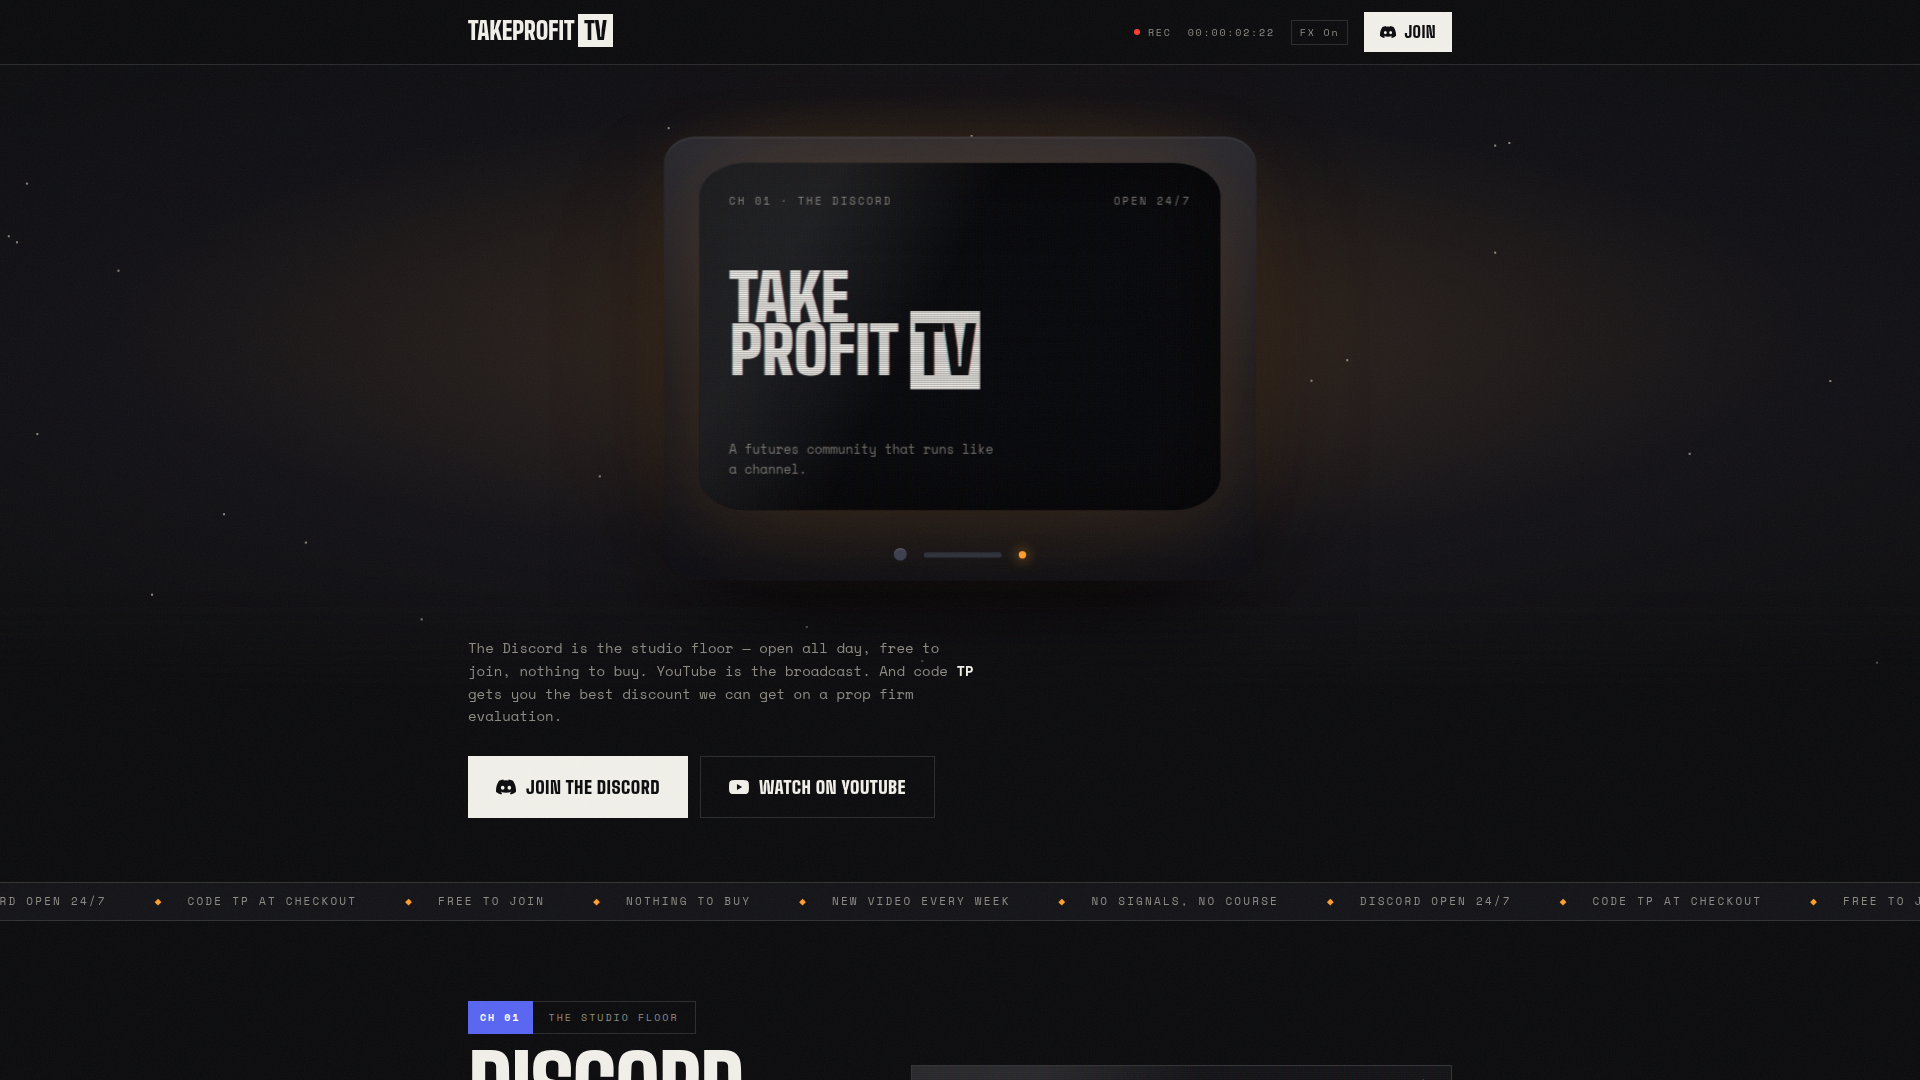
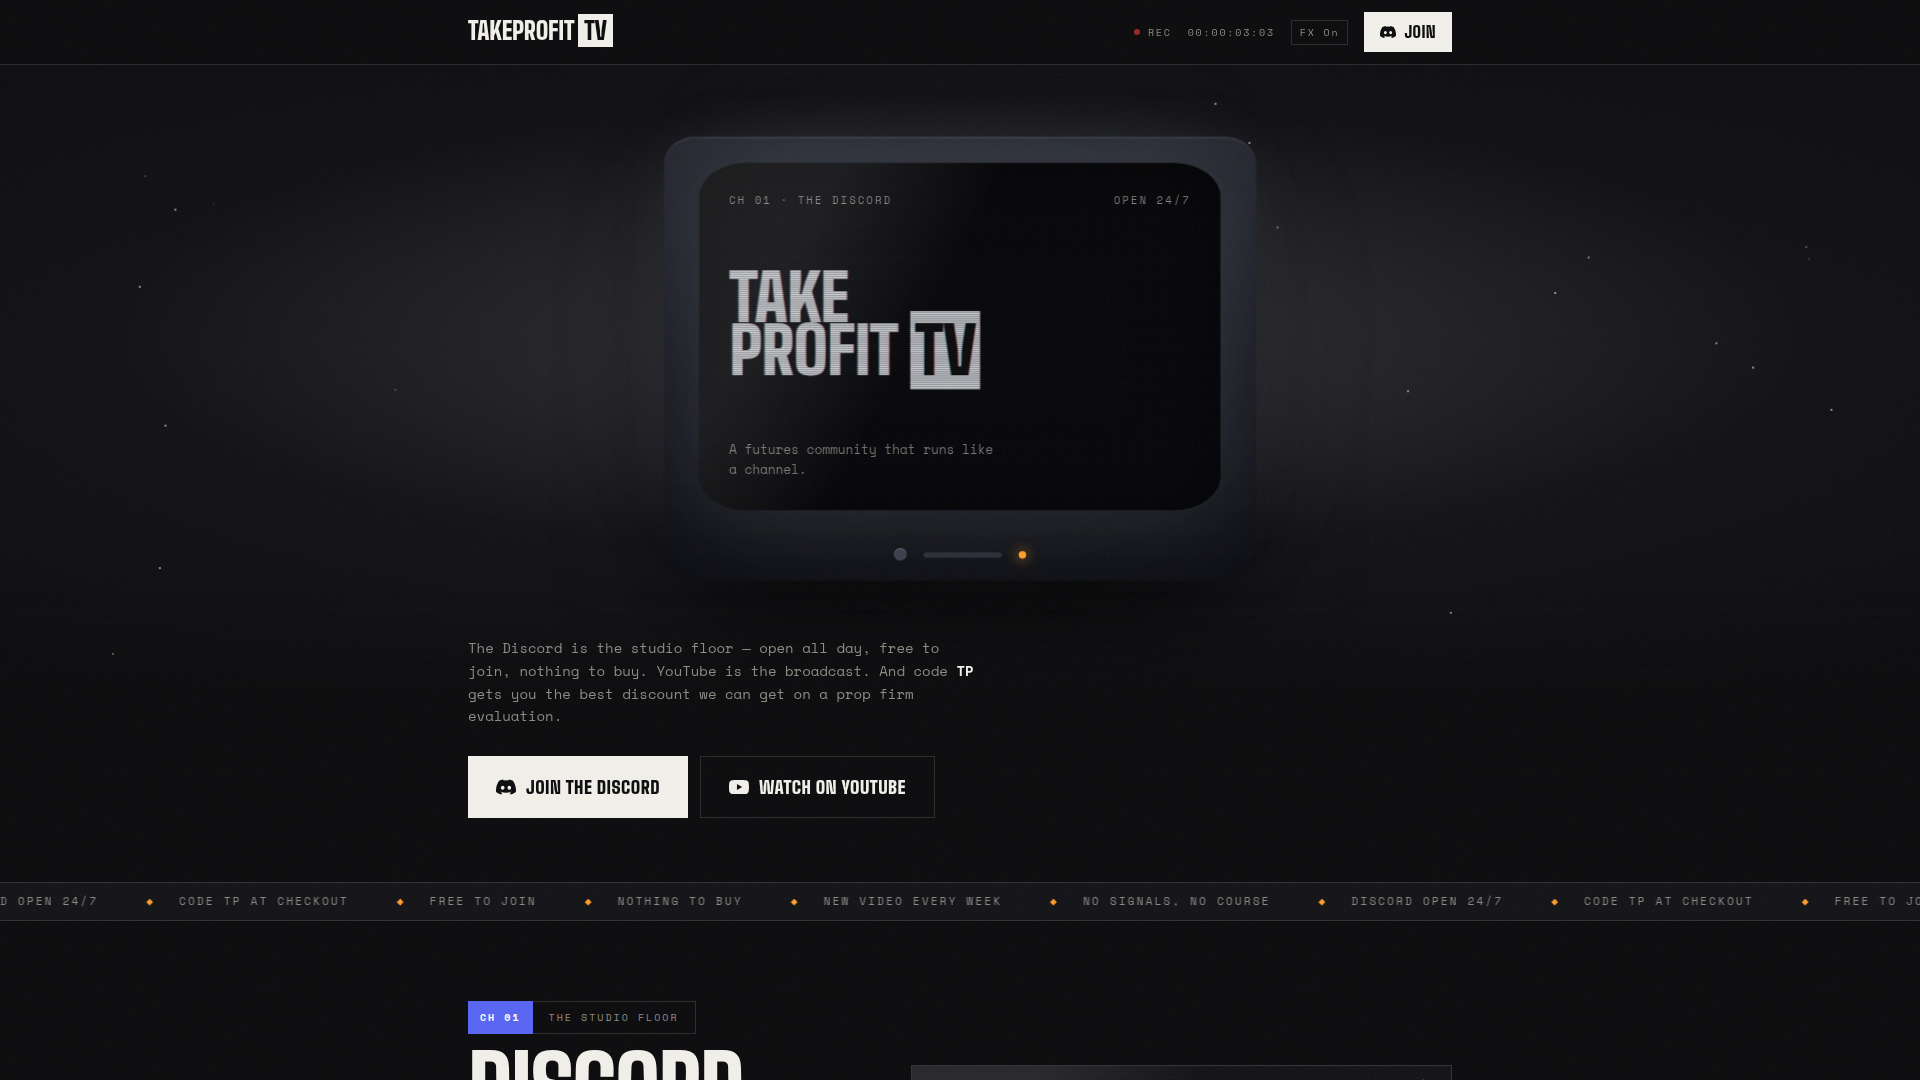
Make the hero screen a cold grey tube, and retarget the film at it
The hero screen read as a warm amber panel, which looked like a lit
graphic rather than a television. It is now cold phosphor grey, and
because a set lights a room in its own colour, the glow and the wall
bounce follow it — leaving the small amber power LED as the only warm
point in frame, which is what a real tube in a dark room looks like.

The screen also flickers now. The opacity steps are hand-jittered
rather than eased: a smooth curve reads as a CSS animation, an
irregular table reads as a tube not quite holding its signal. It is
shallow enough to keep the copy legible, and off under
prefers-reduced-motion and the FX switch like everything else textural.

The film brief followed the same change, since its whole job is to
arrive where the site lives. The colour arc now drains to cold grey
rather than amber, shots 4 and 5 land on a grey tube with the amber
power light as the last surviving warmth, and the handoff frame was
recaptured from the current build — the committed one still showed the
old amber screen.

Also corrects the style direction. Flat vector cartoon was the wrong
read: it looks like clipart at video resolution and it is what video
models handle worst, because linework boils and flat fills band. The
target is stylised 3D with cinematic lighting, which is both the better
look and the one these models can hold across takes. The brief now
starts with a look-dev step — settle one still, reference it everywhere
[…]

diff --git a/src/app/globals.css b/src/app/globals.css
@@ -22,6 +22,8 @@
   --amber: #ff9e2c;
   --rec: #ff3b30;
   --blurple: #5865f2;
+  /* Cold phosphor. The hero screen and everything it lights. */
+  --screen: #c9ccd1;
 
   /* SMPTE colour bars at 75% — the site's decorative palette.
      Seven colours where every competitor has one accent. */
@@ -43,6 +45,7 @@
   --color-amber: var(--amber);
   --color-rec: var(--rec);
   --color-blurple: var(--blurple);
+  --color-screen: var(--screen);
   --font-display: var(--font-shoulders);
   --font-mono: var(--font-space-mono);
 }
@@ -262,7 +265,7 @@ body {
 .room-wall {
   transform: translateZ(-620px) scale(1.75);
   background:
-    radial-gradient(ellipse 50% 42% at 50% 46%, rgba(255, 158, 44, 0.14), transparent 62%),
+    radial-gradient(ellipse 50% 42% at 50% 46%, rgba(201, 204, 209, 0.16), transparent 62%),
     radial-gradient(ellipse 80% 62% at 50% 54%, rgba(38, 34, 44, 0.5), transparent 72%),
     linear-gradient(#0e0e12, var(--ink) 72%);
 }
@@ -325,8 +328,8 @@ body {
   background: #06070b;
   box-shadow:
     inset 0 0 72px rgba(0, 0, 0, 0.95),
-    0 0 90px rgba(255, 158, 44, 0.16),
-    0 0 200px rgba(255, 158, 44, 0.08);
+    0 0 90px rgba(201, 209, 218, 0.14),
+    0 0 200px rgba(201, 209, 218, 0.07);
 }
 .room-feet {
   position: absolute;
@@ -377,3 +380,30 @@ body {
 }
 [data-fx="off"] .room-dust { display: none; }
 [data-fx="off"] .room-screen { box-shadow: inset 0 0 40px rgba(0, 0, 0, 0.8); }
+
+/* Tube flicker.
+
+   The opacity steps are hand-jittered on purpose. A smooth sine reads as a
+   CSS animation; an irregular table reads as a tube that is not quite
+   holding its signal. Kept shallow so the copy stays legible. */
+.crt-flicker {
+  animation: crt-flicker 3.4s steps(1, end) infinite;
+}
+@keyframes crt-flicker {
+  0%, 100% { opacity: 1; }
+  3% { opacity: 0.86; }
+  5% { opacity: 1; }
+  22% { opacity: 0.93; }
+  24% { opacity: 1; }
+  47% { opacity: 0.88; }
+  48% { opacity: 0.97; }
+  50% { opacity: 1; }
+  71% { opacity: 0.91; }
+  73% { opacity: 1; }
+  92% { opacity: 0.84; }
+  94% { opacity: 1; }
+}
+@media (prefers-reduced-motion: reduce) {
+  .crt-flicker { animation: none; }
+}
+[data-fx="off"] .crt-flicker { animation: none; }

diff --git a/src/components/hero-room.tsx b/src/components/hero-room.tsx
@@ -104,7 +104,7 @@ export function HeroRoom() {
                   aria-hidden="true"
                 />
               ) : (
-                <div className="flex h-full flex-col justify-between p-5 sm:p-7">
+                <div className="crt-flicker flex h-full flex-col justify-between p-5 sm:p-7 text-screen">
                   <div className="flex justify-between text-[9px] uppercase tracking-[0.2em] text-dim sm:text-[10px]">
                     <span>CH 01 · The Discord</span>
                     <span className="hidden sm:inline">Open 24/7</span>
@@ -112,7 +112,7 @@ export function HeroRoom() {
                   <h1 className="rgb-split font-display text-[13vw] font-black uppercase leading-[0.82] tracking-[-0.015em] sm:text-[62px]">
                     Take
                     <br />
-                    Profit <span className="bg-bone px-1 text-ink">TV</span>
+                    Profit <span className="bg-screen px-1 text-ink">TV</span>
                   </h1>
                   <p className="max-w-[34ch] text-[10px] leading-relaxed text-dim sm:text-xs">
                     A futures community that runs like a channel.

diff --git a/docs/hero-film.md b/docs/hero-film.md
@@ -10,20 +10,53 @@ and cut them together.
 
 ## The arc
 
-The film has a colour journey, and it is doing real work: it starts as bright
-candy-pastel cartoon and **cools into the site's amber-on-near-black as the
-vortex deepens**, so the last frame can dissolve straight into the live hero
-without a jarring palette jump. Do not skip this — it is what makes the
-transition land rather than look like two unrelated videos taped together.
+The film has a colour journey, and it is doing real work: it starts warm and
+saturated, and **drains to cold grey and near-black as the vortex deepens**, so
+it arrives in the same world the website lives in. Do not skip this — it is what
+makes the ending land rather than look like two unrelated videos taped together.
+
+Match the destination exactly: the site's hero is a **cold grey** screen in a
+dark room, lit by nothing but the tube, with a single amber power LED as the
+only warm point in frame. That LED is the one piece of warmth that survives the
+journey, which is a nice beat to land on.
+
+## Look development comes first
+
+Before any video, generate **one still** that settles the look, then reference it
+in every shot. Everything else in this brief depends on that frame existing.
+
+The style is **stylised 3D with cinematic lighting** — the register of a modern
+animated feature. Colourful and characterful, but lit and graded like film.
+
+That is a deliberate move away from flat vector cartoon, for two reasons. Flat
+2D with hard outlines reads as clipart at video resolution, and it is the thing
+video models handle worst: linework boils, outlines wobble frame to frame, and
+flat fills band under compression. Volumetric light, soft shading and depth of
+field are what these models are genuinely good at, so a stylised-3D target gets
+you a better *and* more consistent result from the same credits.
+
+Generate the style frame in an image model (Gen-4 Image, or one of the image
+models hosted inside Runway), then save it as a Reference:
+
+> A warm stylised 3D animated still in the register of a modern animated
+> feature. A young man stands on a sunlit street of rounded pastel buildings,
+> caught mid-stride, looking back over his shoulder with a grin. Soft global
+> illumination, warm rim light along his shoulder, volumetric light shafts,
+> shallow depth of field, rich saturated colour, gentle film grain, filmic
+> colour grade.
+
+Reroll that one frame until the look is right. It is the cheapest decision in
+the whole production and every shot inherits from it.
 
 ## Global style string
 
-Paste this, unchanged, into every shot. Consistency across shots comes from
-repeating the style verbatim, not from rewording it.
+Once the look frame is approved, paste this into every shot, unchanged.
+Consistency comes from repeating it verbatim, not rewording it each time.
 
-> Flat 2D cartoon animation, bold black outlines of even weight, flat cel
-> shading, candy-pastel palette of peach, mint, coral and cream with warm amber
-> light, rounded friendly shapes, subtle paper grain.
+> Cinematic stylised 3D animation, modern animated feature quality. Rounded
+> appealing character design, soft global illumination, warm rim light,
+> volumetric light shafts, shallow depth of field, rich saturated colour,
+> subtle film grain, filmic colour grade.
 
 ## The shots
 
@@ -57,28 +90,31 @@ four takes of each.
 
 > First-person flight down a swirling tunnel of light. Ribbons of colour spiral
 > past the camera. Rows of floating rectangular screens drift by on the left
-> and right, glowing softly, their surfaces blank. The colours cool from candy
-> pastel toward deep amber and near black as the tunnel deepens. A bright point
-> of warm amber light sits far ahead and grows steadily. Fast continuous
+> and right, glowing softly, their surfaces blank. The colour drains from warm
+> and saturated toward cold grey and near black as the tunnel deepens. A pale
+> point of cold light sits far ahead and grows steadily. Fast continuous
 > forward camera.
 
 The blank screens are deliberate. They are **compositing slots** — see below.
 
 ### Shot 5 — Arrival (5s)
 
-> First-person point of view. A point of warm amber light swells until it fills
+> First-person point of view. A pale point of cold light swells until it fills
 > the frame and blows out to white. The white settles into a quiet dark room
-> where a single vintage television glows amber against a far wall, dust
-> drifting through the beam. The camera eases to a stop. Slow deceleration and
-> a gentle settle.
+> where a single vintage television glows cold grey against a far wall, its
+> small amber power light the only warmth in frame, dust drifting through the
+> beam. The camera eases to a stop. Slow deceleration and a gentle settle.
 
 ## Two things Runway will get wrong
 
 **1. Text.** Video models garble lettering. Never ask it to render
 "TakeprofitTV" — it will come back as TAKEPRQFIT, warping frame to frame.
-`docs/assets` has a clean cartoon television with the correct wordmark and the
-TPTV mark on screen. Use it as the reference image for the set, and composite
-the nameplate back on in post if a shot needs it legible.
+
+`docs/assets/tptv-tv-cartoon.png` is a flat vector drawing of the set with the
+wordmark and the TPTV mark correct. **It is a lettering plate, not a style
+reference** — flat vector is not the look this film is going for. Use it only to
+composite the nameplate back onto the television in post, and take the set's
+actual look from the style frame above.
 
 **2. The YouTube clips and the Discord feed.** Runway cannot insert real
 footage. That is why Shot 4 asks for *blank* glowing rectangles: they are
